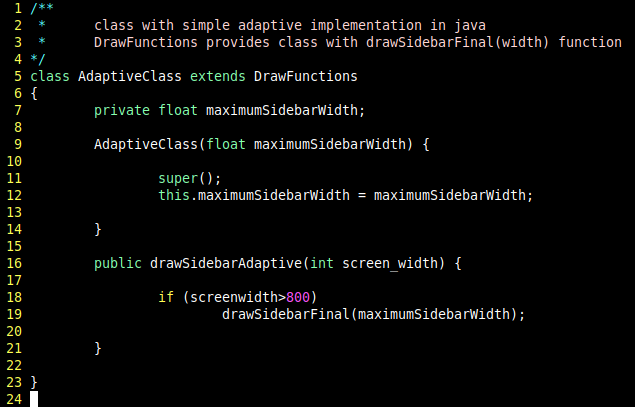
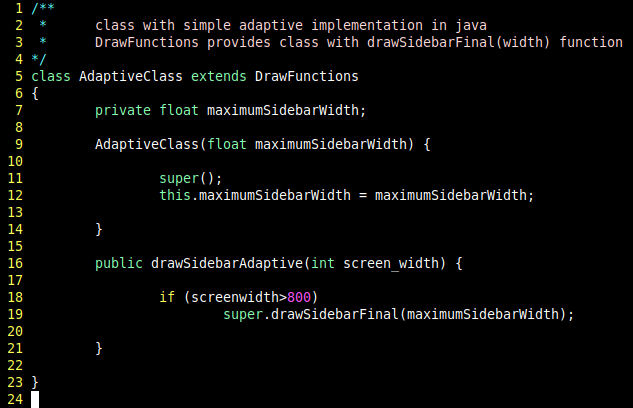
finalizing for presentation

diff --git a/index.html b/index.html
@@ -4,6 +4,7 @@
 <head>
 
 
+<meta http-eqiv="content-type" content="text/html; charset=utf-8">
 <title>responsive design</title>
 <link rel="stylesheet" href="style.css">
 
@@ -19,7 +20,8 @@
 
 <button type="button" onclick="location.href = 'nohandle.html';">Low-Fat Gemüse Wrap</button><br>
 <button type="button" onclick="location.href = 'adaptive.html';">Short Kritique</button><br>
-<button type="button" onclick="location.href = 'responsive.html';">Pretencious Picks Collections</button>
+<button type="button" onclick="location.href = 'responsive.html';">Pretencious Picks Collections</button><br>
+<button type="button" class="hiddenjutsu" onclick="location.href = 'improved.html';">Improving Gemüsewrap</button>
 
 </div>
 

diff --git a/improved.html b/improved.html
@@ -5,25 +5,25 @@
 
 
 <meta http-eqiv="content-type" content="text/html; charset=utf-8">
-<title>lowfat wrap</title>
-<link rel="stylesheet" href="nohandle_style.css">
+<title>improved wrap</title>
+<link rel="stylesheet" href="improved_style.css">
 
 
 </head>
 <body>
 
 
-<h1>Bodhi's Low-Fat Gemüse Wrap</h1>
+<h1>Bodhi's Low-Fat Gemüse Wrap 2.0</h1>
 
 
 <div class="wrap_entity">
-<img src="source/wrap1.jpg">
+<img src="source/wrap1.jpg"><br>
 <button type="button">Gemüsewrap Kostenpflichtig Erwerben</button>
 </div>
 <br>
 
 <div class="wrap_entity">
-<img src="source/wrap2.jpg">
+<img src="source/wrap2.jpg"><br>
 <button type="button">Low-Fat Mushroomwrap Kostenpflichtig Erwerben</button>
 </div>
 

diff --git a/improved_style.css b/improved_style.css
@@ -1,0 +1,70 @@
+body {
+
+	font-family: "Comic Sans MS", "Comic Sans", cursive;
+	background-color: #004100;
+
+}
+
+
+h1 {
+
+	color: #c00;
+}
+
+
+.wrap_entity {
+
+	/*display: flex;
+	align-items: center;*/
+	width: 100%;
+	height: 300px;
+
+}
+
+
+img {
+
+	width: 700px;
+	height: 300px;
+	flex-wrap: wrap;
+	margin-right: 20px;
+
+}
+
+
+button {
+
+	width: 85%;
+	height: 75px;
+
+}
+
+@media screen and (max-width: 1200px) {
+
+	img {
+
+		width: 350px;
+		height: 150px;
+
+	}
+
+}
+
+
+@media screen and (min-width: 700px) {
+
+	.wrap_entity { 
+
+		display: flex;
+		align-items: center;
+
+	}
+
+	button {
+
+		width: 40%;
+		height: 25px;
+
+	}
+
+}

diff --git a/responsive.html b/responsive.html
@@ -1,24 +1,25 @@
 <!DOCTYPE html>
 
 <html>
-
-
 <head>
 
+
+<meta http-eqiv="content-type" content="text/html; charset=utf-8">
 <title>pretencious picks</title>
 <link rel="stylesheet" href="responsive_style.css">
 
+
 </head>
-
-
 <body>
 
 
 <h1>pretencious picks collections</h1>
 
+
 <img class="portrait" src="source/portrait.jpg">
 <h2 class="username_display">person_with_great_opinion's rotation:</h2>
 <br>
+
 
 <div class="row">
 
@@ -96,6 +97,4 @@
 
 
 </body>
-
-
 </html>

diff --git a/nohandle_style.css b/nohandle_style.css
@@ -1,5 +1,40 @@
 body {
 
 	font-family: "Comic Sans MS", "Comic Sans", cursive;
+	background-color: #004100;
+
+}
+
+
+h1 {
+
+	color: #c00;
+}
+
+
+img {
+
+	width: 700px;
+	height: 300px;
+	flex-wrap: wrap;
+	margin-right: 20px;
+
+}
+
+
+button {
+
+	width: 700px;
+	height: 50px;
+
+}
+
+
+.wrap_entity {
+
+	display: flex;
+	align-items: center;
+	width: 1500px;
+	height: 300px;
 
 }

diff --git a/style.css b/style.css
@@ -36,6 +36,7 @@ button {
 	width: 40%;
 	margin: 4% 0%;
 	display: inline-block;
+	transition: 0.2s;
 
 	box-shadow: 9px 14px 7px black;
 
@@ -49,6 +50,21 @@ button:active {
 
 	box-shadow: 2px 4px 1px red;
 	transform: translateY(4px);
+
+}
+
+
+.hiddenjutsu {
+
+	opacity: 0;
+	transition: 0.4s;
+
+}
+
+
+.hiddenjutsu:hover {
+
+	opacity: 1;
 
 }
 

diff --git a/responsive_style.css b/responsive_style.css
@@ -52,9 +52,11 @@ h1 {
 
 }
 
+
 .column img:hover {
 
 	transform: translateX(-7px) translateY(-7px);
+	transition: 0.2s;
 	box-shadow: 4px 4px 7px 0px #444;
 
 }
@@ -73,8 +75,7 @@ h1 {
 
 	.column {
 
-		flex: 25%;
-		width: 25%;
+		flex: 21%;
 
 	}
 
@@ -85,9 +86,9 @@ h1 {
 
 	.column {
 
-		flex: 50%;
-		width: 50%;
+		flex: 45%;
 
 	}
 
 }
+

diff --git a/adaptive.html b/adaptive.html
@@ -4,6 +4,7 @@
 <head>
 
 
+<meta http-eqiv="content-type" content="text/html; charset=utf-8">
 <title>short kritique</title>
 <link rel="stylesheet" href="adaptive_style.css">
 
@@ -29,7 +30,7 @@
 </div>
 
 
-<h1>Kritique of Bodhi's Low-Fat Gemüse Wrap</h1>
+<h1>Sujet: Bodhi's Low-Fat Gemüse Wrap</h1>
 
 
 <div class="content">

diff --git a/adaptive_style.css b/adaptive_style.css
@@ -73,3 +73,4 @@ a {
 	.left_bar { display: none; }
 
 }
+

diff --git a/responsive_testing.java b/responsive_testing.java
@@ -16,7 +16,7 @@ class AdaptiveClass extends DrawFunctions
 	public drawSidebarAdaptive(int screen_width) {
 
 		if (screenwidth>800)
-			drawSidebarFinal(maximumSidebarWidth);
+			super.drawSidebarFinal(maximumSidebarWidth);
 
 	}
 
@@ -51,7 +51,7 @@ class ResponsiveClass extends DrawFunctions
 
 		// upload dimensions ot element draw
 		for (Element x : e)
-			uploadElementSize(x,
+			super.uploadElementSize(x,
 					(i%rowRange)*squareCrop,(i/rowRange)*squareCrop,
 					squareCrop,squareCrop);
 
